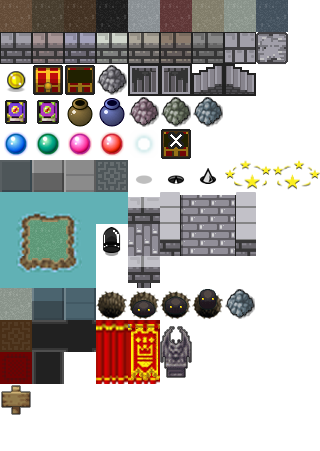
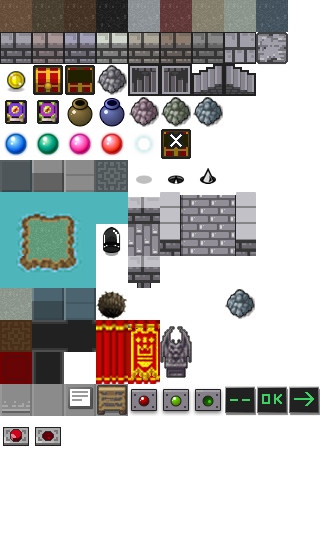
いくつかのスキン

diff --git a/src/hackforplay/rpg-kit-main.js b/src/hackforplay/rpg-kit-main.js
@@ -206,6 +206,14 @@ MapObject.dictionary = {
 	energyBall: 44,
 	trap: 55,
 	usedTrap: 56,
+	wallButton: 125,
+	wallButtonPushed: 126,
+	wallButtonRed: 124,
+	floorButton: 130,
+	floorButtonPushed: 131,
+	displayNone: 127,
+	displayOK: 128,
+	displayArrow: 129,
 
 	// 新仕様公式定義
 	// clay: 320,
